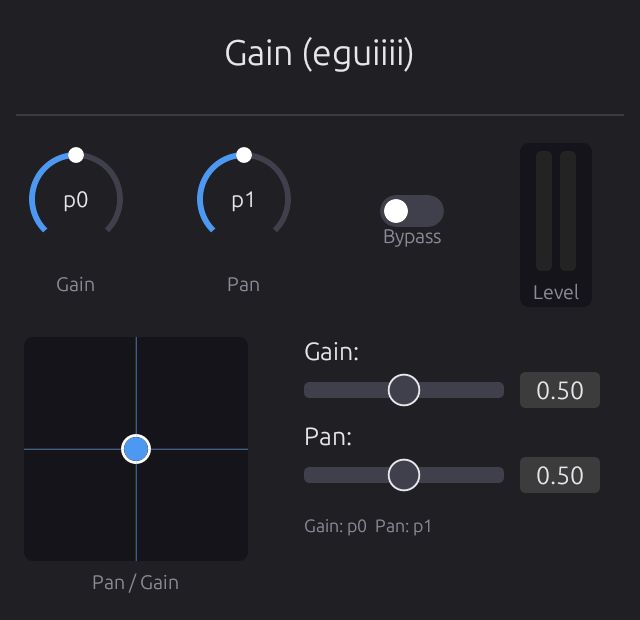
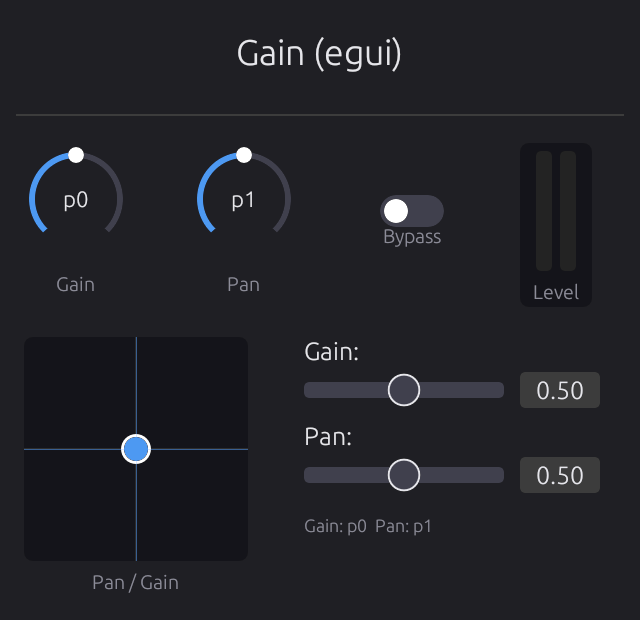
update egui example

Changed region(s): [[0.3438, 0.0613, 0.6562, 0.1226]]

diff --git a/crates/truce-egui/examples/gain-egui/src/lib.rs b/crates/truce-egui/examples/gain-egui/src/lib.rs
@@ -95,7 +95,7 @@ fn gain_ui(ctx: &egui::Context, state: &ParamState) {
     egui::CentralPanel::default().show(ctx, |ui| {
         ui.vertical_centered(|ui| {
             ui.add_space(8.0);
-            ui.heading("Gain (eguiiii)");
+            ui.heading("Gain (egui)");
             ui.add_space(12.0);
         });
 
